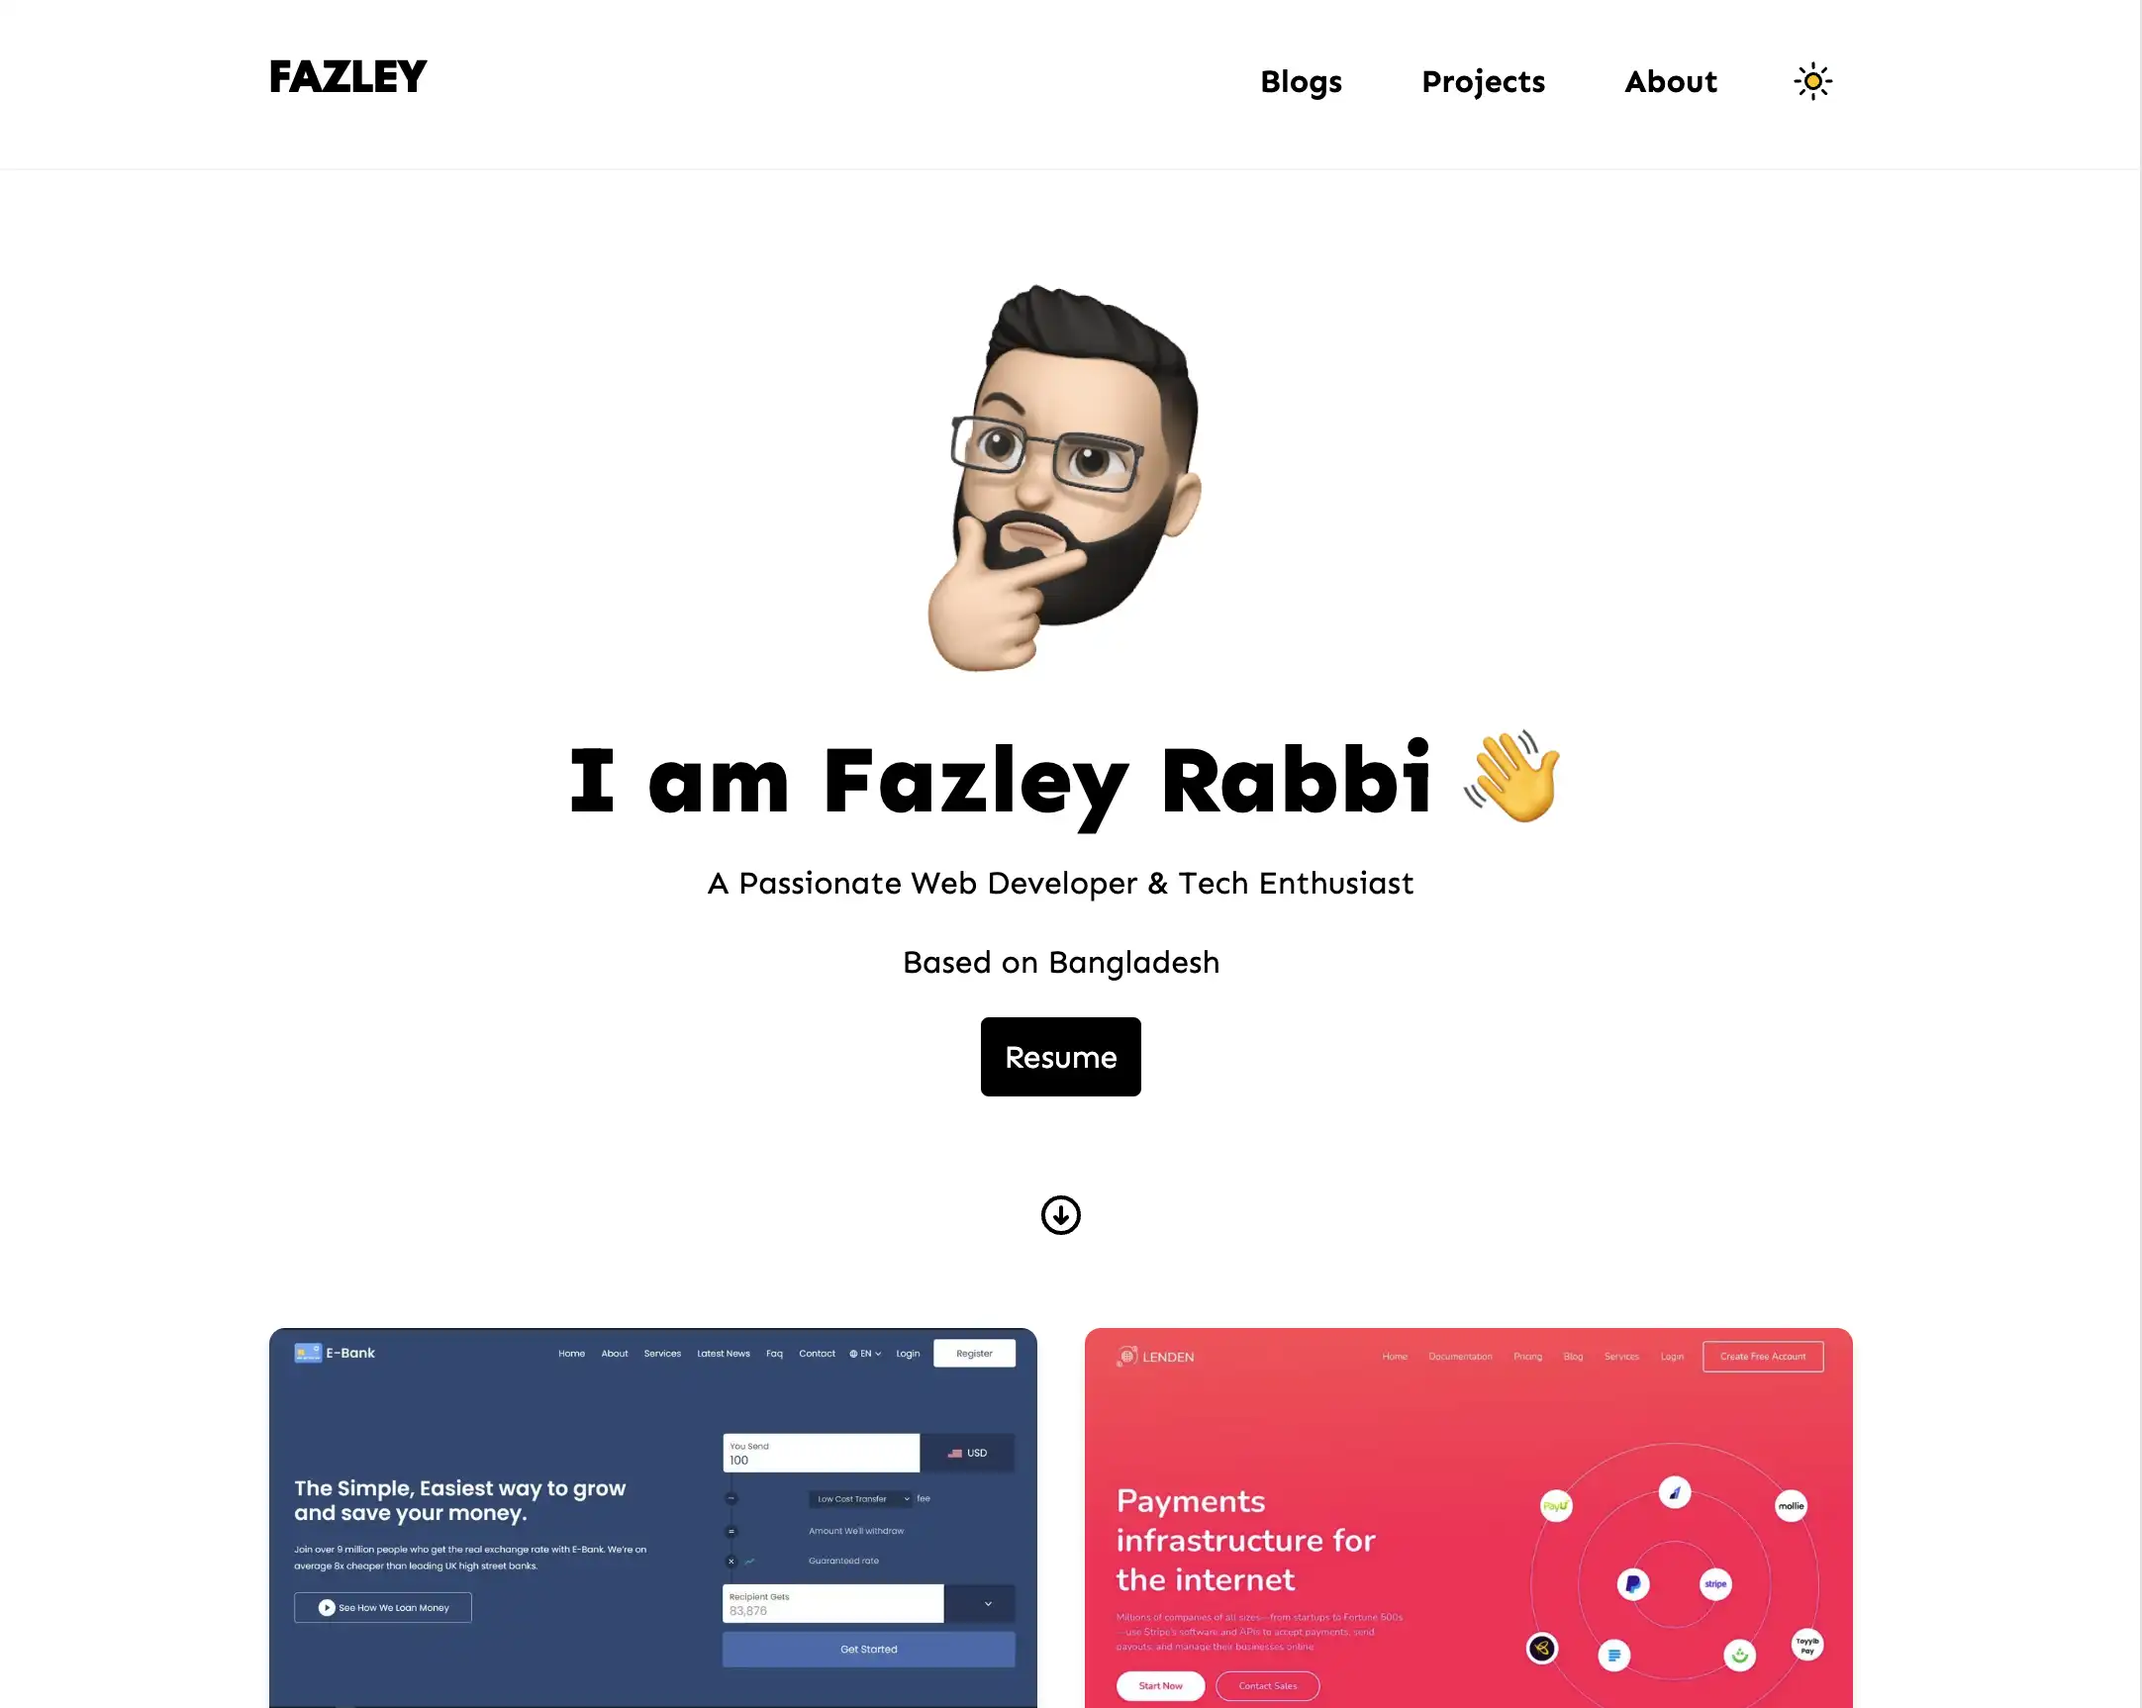
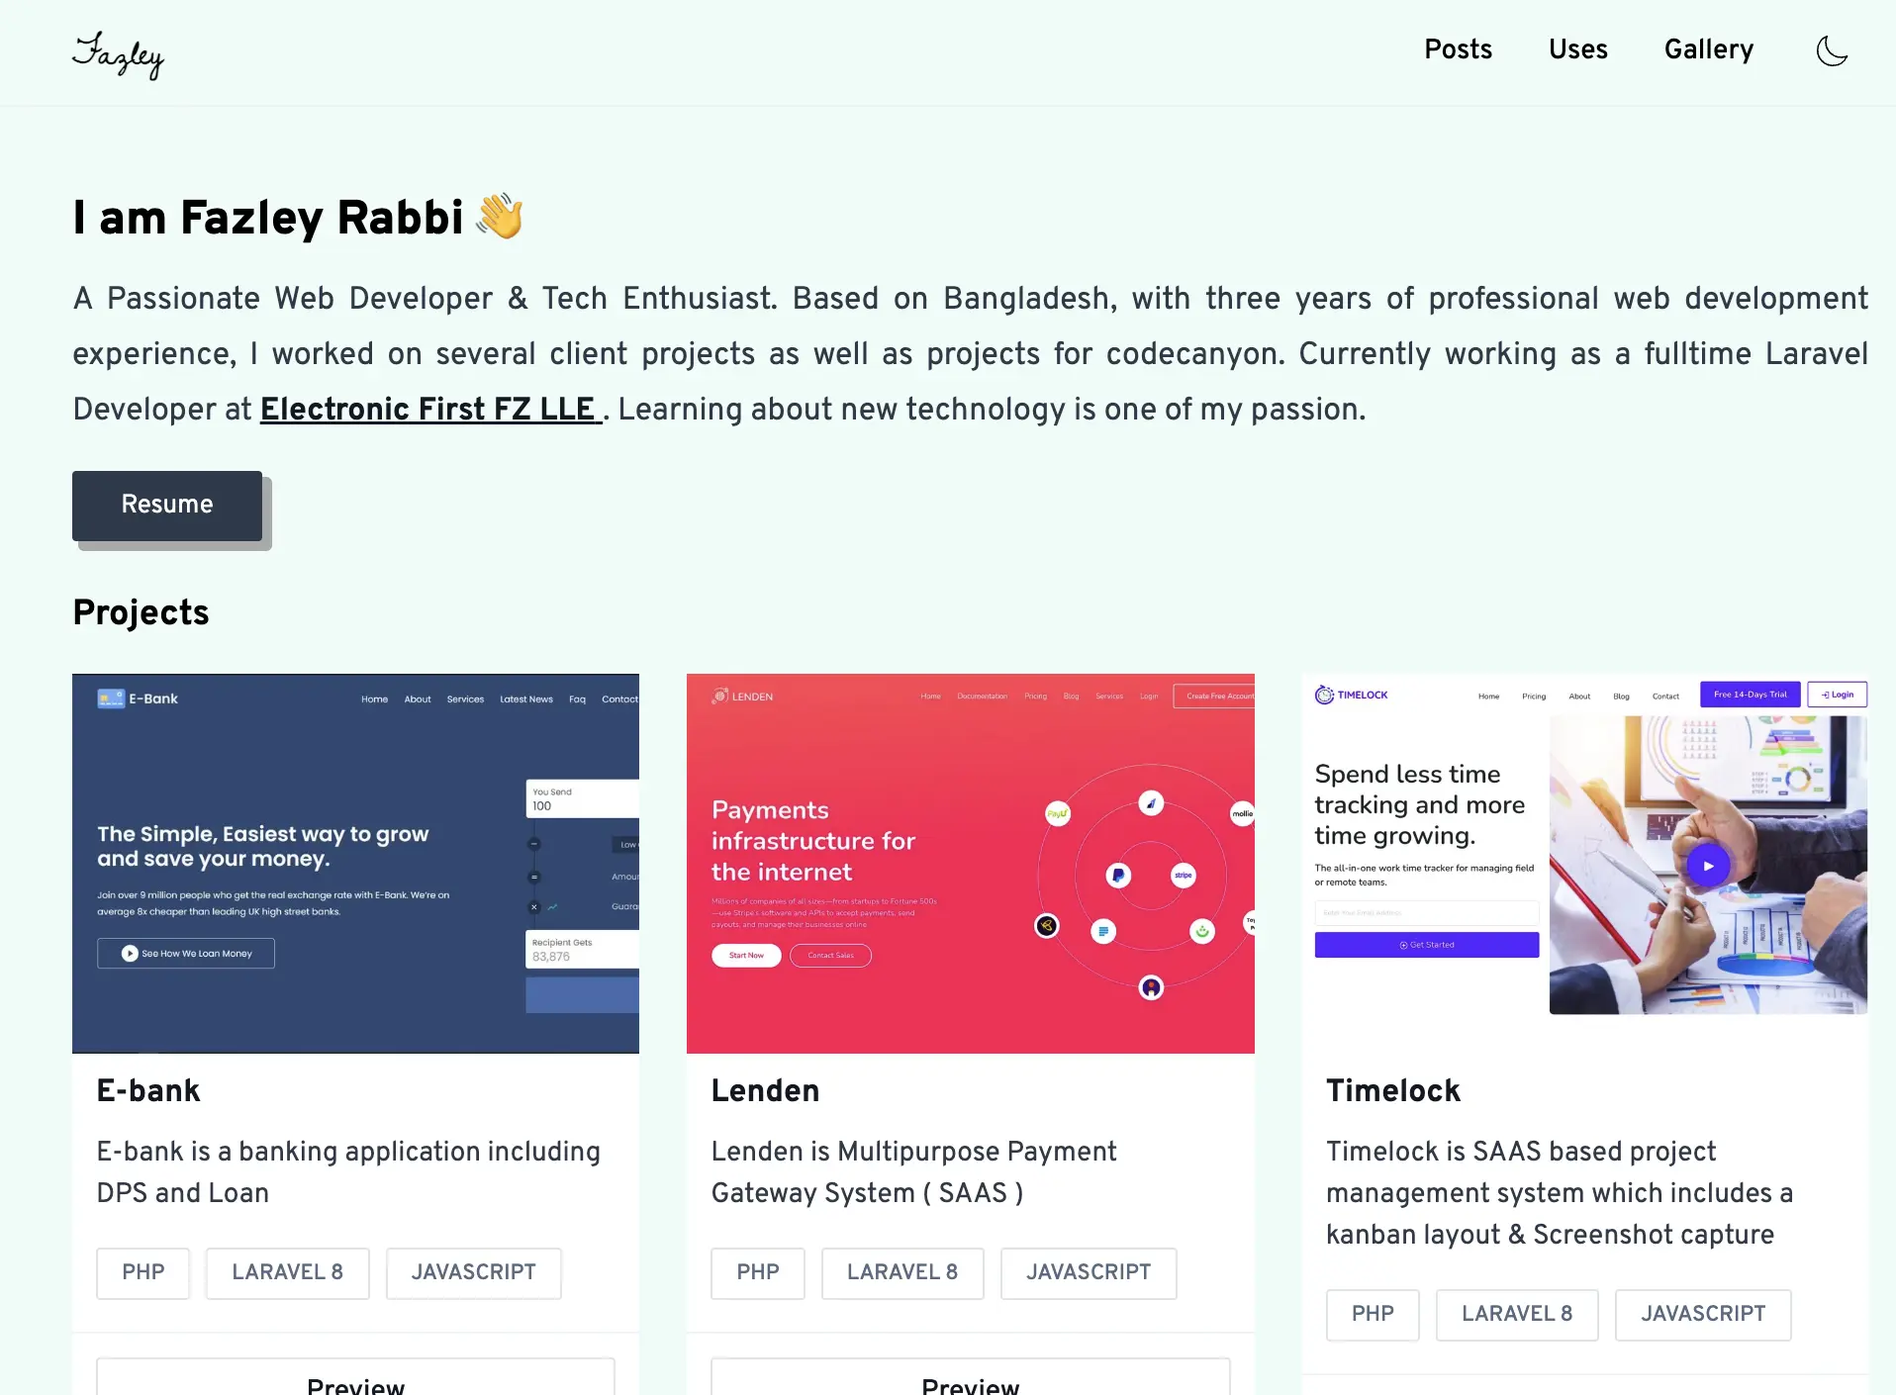
page layout simplified

diff --git a/src/styles/global.css b/src/styles/global.css
@@ -35,7 +35,7 @@
   font-weight: 100 900;
 }
 
-body::before {
+/* body::before {
   --line: hsla(0, 11%, 74%, 0.25);
   content: "";
   height: 100vh;
@@ -48,7 +48,7 @@ body::before {
   top: 0;
   z-index: -100;
   transform: translate3d(0, 0, -100vmin);
-}
+} */
 
 html.dark body::before {
   --line: hsl(0 0% 95% / 0.25);
@@ -91,7 +91,7 @@ html.dark body::before {
 }
 
 .custom-button {
-  @apply text-white bg-slate-700 hover:bg-slate-800 font-medium text-sm sm:w-auto px-5 py-2.5 text-center dark:bg-slate-600 dark:hover:bg-slate-700 dark:focus:ring-slate-800 custom-box-shadow outline-none active:outline-none active:border-none active:outline-offset-0 focus:outline-none rounded-sm
+  @apply w-24 text-white bg-slate-700 hover:bg-slate-800 text-xs px-3 py-2 text-center dark:bg-slate-600 dark:hover:bg-slate-700 dark:focus:ring-slate-800 custom-box-shadow outline-none active:outline-none active:border-none active:outline-offset-0 focus:outline-none rounded-sm
 }
 
 .custom-box-shadow {
@@ -114,8 +114,12 @@ html.dark body::before {
 .project:hover .links{
   transform: translate(0);
 } */
-.custom-navbar {
+/* .custom-navbar {
   @apply fixed w-full z-10 top-0 bg-clip-padding backdrop-filter backdrop-blur-xl bg-opacity-60 backdrop-brightness-100 firefox:bg-white firefox:bg-opacity-30 border-b border-b-gray-100 dark:border-b-gray-800 bg-white/[.25] dark:bg-black/[.1];
+} */
+
+.custom-navbar {
+  @apply w-full z-10 top-0 bg-clip-padding border-b border-b-gray-100 ;
 }
 
 .skill-items li {
@@ -126,17 +130,17 @@ html.dark body::before {
   @apply p-4 flex flex-col justify-between leading-normal w-full dark:outline rounded-sm;
 }
 
-#nav:hover a {
+/* #nav:hover a {
   filter: blur(1px);
   opacity: 0.8;
 }
 
 #nav a:hover {
   @apply blur-none opacity-100
-}
+} */
 
 .nav-link {
-  @apply lg:inline-flex lg:w-auto w-full px-3 py-2 rounded items-center justify-center hover:bg-gray-100 dark:hover:text-black;
+  @apply text-sm lg:inline-flex lg:w-auto w-full px-3 py-2 rounded items-center justify-center hover:bg-gray-100 dark:hover:text-black;
 }
 
 html {
@@ -199,8 +203,8 @@ a {
 }
 
 #themeToggle {
-  height: 48px;
-  width: 48px;
+  height: 38px;
+  width: 38px;
 }
 
 #themeToggle svg {
@@ -307,15 +311,15 @@ a {
       z-index: -1;
     } */
 .card-gradient {
-  --radius: 0.2rem;
-  --inset: 0.2rem;
+  /* --radius: 0.2rem;
+  --inset: 0.2rem; */
   /* --child-radius: calc(var(--radius) - var(--inset)); */
-  --child-radius: 0.2rem;
+  /* --child-radius: 0.2rem;
   position: relative;
-  border-radius: var(--radius);
+  border-radius: var(--radius); */
 }
 
- .card-gradient a img{
+/* .card-gradient a img{
   border-top-left-radius: var(--child-radius);
   border-top-right-radius: var(--child-radius);
 }
@@ -357,4 +361,4 @@ a {
 .card-gradient:hover::before{
   opacity: 1;
   animation-play-state: running;
-}
+} */

diff --git a/lib/static.js b/lib/static.js
@@ -82,11 +82,7 @@ export const experiences = [
         from: 'Jan 2020',
         to: 'December 2020',
         role: 'Web Developer',
-        contributions: [
-            'Class Evaluation System',
-            'Shop Management System',
-            'Library Management System',
-    ],
+        skills: 'PHP, CodeIgniter, Jquery, CMS, Blog Site',
         timeline: new Date("2019-01-01")
     },
     {
@@ -95,15 +91,7 @@ export const experiences = [
         from: 'Jan 2021',
         to: 'July 2021',
         role: 'Laravel Developer',
-        contributions: ['Building Backend Web app with Laravel',
-            'Payment Gateway Integration (Stripe, Paypal)',
-            'Two Step Authentication, Multi Auth,Email queue',
-            'Custom Middleware Implementation',
-            'CV Builder with Jquery and Ajax',
-            'Multiple API Integration (Mailchimp, Twilio)',
-            'Dynamic Kanban Layout for project management with Jquery UI',
-            'Bus Seat Management with Javascript',
-        ],
+        skills: 'Laravel, Payment Gateways, CV Builder, API',
         timeline: new Date("2021-07-06")
     },
     {
@@ -111,17 +99,8 @@ export const experiences = [
         link: 'https://www.electronicfirst.com/',
         from: 'October 2021',
         to: 'Present',
-        role: 'Software Engineer',
-        contributions: ['Backend Maintenance',
-            'Adding New Features',
-            'Debugging existing errors',
-            'Refactoring & Optimizations',
-            'Implementation of Custom third party APIs (Checkout.com, Paypal, EZpin, Mintroute)',
-            'Improving Data Loading Time',
-            'Laravel Version Upgrades',
-            'Worked on Rest API for Mobile app',
-            'Web automation with Puppeteer',
-        ],
+        role: 'Software Engineer (Laravel)',
+        skills: 'Laravel, Web Automation, Rest API, Version Upgrades, Improve Queries and Optimizations',
         timeline: new Date("2021-10-15")
     }
 ]

diff --git a/src/components/uses.md b/src/components/uses.md
@@ -1,9 +1,9 @@
-### Editor 
+#### Editor 
 + <a class="hover:opacity-50" href="https://code.visualstudio.com/" target="_blank">Visual Studio Code</a>
 + <a class="hover:opacity-50" href="https://marketplace.visualstudio.com/items?itemName=eserozvataf.one-dark-pro-monokai-darker" target="_blank">One Dark Pro Monokai Darker</a>
 + <a class="hover:opacity-50" href="https://github.com/kencrocken/FiraCodeiScript" target="_blank">Fira Code iScript</a> Font 
 
-### Tools
+#### Tools
 + <a class="hover:opacity-50" href="https://github.com/laravel/valet" target="_blank">Valet</a> / <a class="hover:opacity-50" href="https://www.docker.com/" target="_blank">Docker</a> for Dev Environment
 + <a class="hover:opacity-50" href="https://google.com/chrome/" target="_blank" title="Google Chrome">Chrome</a> / <a class="hover:opacity-50" href="https://arc.net/" target="_blank" title="Arc">Arc</a> Browser
 + <a class="hover:opacity-50" href="https://clickup.com/" target="_blank" title="Clickup">Clickup</a> for Project Management
@@ -14,13 +14,13 @@
 + <a class="hover:opacity-50" href="https://cleanshot.com/" target="_blank" title="Screenshot Tool">Cleanshot X</a> for Screen capturing
 + Apple Notes for note taking <small>(Default Mac OS Note app)</small>
 
-### Terminal
+#### Terminal
 + <a class="hover:opacity-50" href="https://iterm2.com/" target="_blank" title="iTerm2">iTerm2</a>
 + <a class="hover:opacity-50" href="https://www.warp.dev/" target="_blank" title="Warp">Warp</a> 
 + <a class="hover:opacity-50" href="https://github.com/ohmyzsh/ohmyzsh/wiki/Installing-ZSH" target="_blank" title="Zsh">Zsh</a> with <a class="hover:opacity-50" href="https://ohmyz.sh/" target="_blank" title="ohmyzsh">ohmyzsh</a> & "bira" theme
 + <a class="hover:opacity-50" href="https://fonts.google.com/specimen/Sometype+Mono" target="_blank" title="Monospace Font">Sometype mono</a> 
 
-### Setup
+#### Setup
 + Apple <a class="hover:opacity-50" href="https://www.amazon.com/Apple-MacBook-14-inch-8%E2%80%91core-14%E2%80%91core/dp/B09JQSLL92?th=1" target="_blank" title="Primary Work Laptop">Macbook Pro M1 14</a> with 16gb Ram and 512gb SSD
 + <a class="hover:opacity-50" href="https://www.amazon.com/LG-32UN650-W-Compatibility-Borderless-Adjustable/dp/B08FQ42MN1/" target="_blank" title="4k Monitor">LG 32UN650</a>  32inch 4k Monitor
 + Logitech <a class="hover:opacity-50" href="https://www.amazon.com/Logitech-Master-Performance-Ultra-Fast-Scrolling/dp/B0BS9VVQPD/" target="_blank" title="Wireless Mouse">MX Master 3s</a> Mouse
@@ -30,7 +30,7 @@
 + Adata A680 1TB Portable HDD <small><a class="hover:opacity-50" href="https://www.amazon.com/ADATA-Military-Grade-Shock-Proof-External-AHD680-1TU31-CBK/dp/B07KK2RGHY/" target="_blank" title="1TB HDD">( AHD680-1TU31-CBK )</a></small> 
 + <a class="hover:opacity-50" href="https://www.oneplus.com/ae/oneplus-bullets-wireless-z2" target="_blank" title="Primary headphone and Mic for calling">OnePlus Bullets Z2</a> Wireless Neckband
 
-### Gaming 
+#### Gaming 
 + <a class="hover:opacity-50" href="https://getwhisky.app/" target="_blank" title="Gaming Emulator">Whisky</a> a wine wrapper for windows apps
 + <a class="hover:opacity-50" href="https://rpcs3.net/" target="_blank" title="Gaming Emulator">RPCS3</a> for PS3 emulation
 + <a class="hover:opacity-50" href="https://pcsx2.net/" target="_blank" title="Gaming Emulator">PCSX2</a> for PS2 emulation

diff --git a/src/components/about.md b/src/components/about.md
@@ -2,4 +2,4 @@
 
 ---
 
-A tech enthusiast and an introvert. With three years of professional web development experience,  I worked on several client projects as well as projects for codecanyon. Currently working as a fulltime Laravel Developer at [**Electronic First FZ LLE** ](https://www.electronicfirst.com/) . Learning about new technology is one of my passion. Currently learning about Docker, AWS and a little bit of Vue. I also have interest in Jamstack.
+A Passionate Web Developer & Tech Enthusiast. Based on Bangladesh, with three years of professional web development experience,  I worked on several client projects as well as projects for codecanyon. Currently working as a fulltime Laravel Developer at [**Electronic First FZ LLE** ](https://www.electronicfirst.com/) . Learning about new technology is one of my passion.
